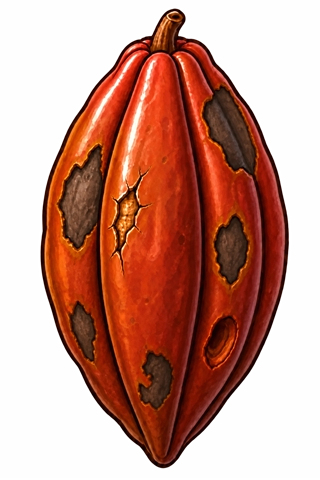
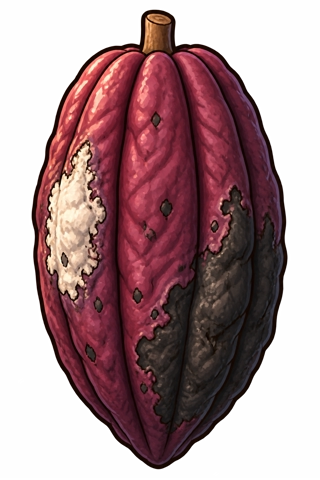
feat: se agrego boton de audio para instrucciones

diff --git a/src/scenes/SeleccionarMadurasScene.js b/src/scenes/SeleccionarMadurasScene.js
@@ -34,6 +34,7 @@ export default class SeleccionarMadurasScene extends Phaser.Scene {
         this.indicators = [];
         this.lifeIcons = [];
         this.firstWrongVoicePlayed = false;
+        this.firstDamagedVoicePlayed = false;
         this.lastInteractionAt = 0;
 
         this.createBackground();
@@ -90,32 +91,36 @@ export default class SeleccionarMadurasScene extends Phaser.Scene {
 
         this.progressPanel = this.add.rectangle(
             this.width * 0.16,
-            this.height * 0.085,
-            this.width * 0.22,
-            this.height * 0.095,
+            this.height * 0.155,
+            this.width * 0.15,
+            this.height * 0.06,
             0xFFF1C6,
             0.96
         ).setDepth(50);
 
-        this.progressPanel.setStrokeStyle(6, 0x7C431B, 1);
+        this.progressPanel.setStrokeStyle(
+            Math.max(3, this.height * 0.004),
+            0x7C431B,
+            1
+        );
 
         const podIcon = this.add.image(
-            this.width * 0.085,
-            this.height * 0.085,
+            this.width * 0.125,
+            this.height * 0.155,
             "MazorcaMaduraAmarilla"
         );
 
         podIcon
-            .setScale((this.height * 0.068) / podIcon.height)
+            .setScale((this.height * 0.044) / podIcon.height)
             .setDepth(51);
 
         this.progressText = this.add.text(
             this.width * 0.175,
-            this.height * 0.085,
+            this.height * 0.155,
             `0 / ${this.totalRipe}`,
             {
                 fontFamily: "Trebuchet MS",
-                fontSize: `${this.height * 0.044}px`,
+                fontSize: `${this.height * 0.03}px`,
                 color: "#5F3215",
                 fontStyle: "bold"
             }
@@ -127,21 +132,21 @@ export default class SeleccionarMadurasScene extends Phaser.Scene {
 
         this.timerPanel = this.add.image(
             this.width * 0.5,
-            this.height * 0.085,
+            this.height * 0.075,
             "PanelTemporizador"
         );
 
         this.timerPanel
-            .setScale((this.width * 0.23) / this.timerPanel.width)
+            .setScale((this.width * 0.18) / this.timerPanel.width)
             .setDepth(50);
 
         this.timerText = this.add.text(
-            this.width * 0.535,
-            this.height * 0.085,
+            this.width * 0.527,
+            this.height * 0.075,
             this.formatTime(this.remainingTime),
             {
                 fontFamily: "Trebuchet MS",
-                fontSize: `${this.height * 0.041}px`,
+                fontSize: `${this.height * 0.034}px`,
                 color: "#FFFFFF",
                 fontStyle: "bold"
             }
@@ -153,19 +158,20 @@ export default class SeleccionarMadurasScene extends Phaser.Scene {
 
     createLivesHud() {
 
-        const availableWidth = this.width * 0.115;
+        const availableWidth = this.width * 0.18;
         const heartWidth = Math.min(
-            this.width * 0.042,
+            this.width * 0.05,
+            this.height * 0.09,
             (availableWidth / this.maxLives) * 0.84
         );
         const spacing = heartWidth * 1.12;
-        const startX = this.width * 0.335 - spacing * (this.maxLives - 1) / 2;
+        const startX = this.width * 0.16 - spacing * (this.maxLives - 1) / 2;
 
         for (let index = 0; index < this.maxLives; index++) {
 
             const heart = this.add.image(
                 startX + spacing * index,
-                this.height * 0.085,
+                this.height * 0.065,
                 "CorazonLleno"
             );
 
@@ -232,10 +238,8 @@ export default class SeleccionarMadurasScene extends Phaser.Scene {
 
         new TutorialPanel(this, {
             character: "CacaitoIndicaciones",
-            text: "Toca las 5 mazorcas amarillas y anaranjadas. Evita las verdes y las dañadas: perderás un corazón.",
+            text: "Toca las cinco mazorcas amarillas y anaranjadas. Esas ya están maduras.",
             audio: "vozSeleccionMadurasInstruccion",
-            confirmText: "Jugar",
-            replayText: "Repetir audio",
             onVoiceStart: () => this.duckMusic(),
             onVoiceComplete: () => {},
             onComplete: () => {
@@ -253,6 +257,7 @@ export default class SeleccionarMadurasScene extends Phaser.Scene {
 
         this.createPods();
         this.createTimer();
+        this.createReplayAudioButton();
 
         this.pauseButton.setAlpha(1);
         this.pauseHitTarget.setInteractive({ useHandCursor: true });
@@ -265,6 +270,93 @@ export default class SeleccionarMadurasScene extends Phaser.Scene {
         });
 
         this.time.delayedCall(900, () => this.showHint());
+
+    }
+
+    createReplayAudioButton() {
+
+        this.replayAudioButton = this.add.image(
+            this.width * 0.94,
+            this.height * 0.90,
+            "btnRepetirAudio"
+        );
+
+        const buttonWidth = Math.min(
+            this.width * 0.055,
+            this.height * 0.09
+        );
+
+        this.replayAudioButtonScale = buttonWidth / this.replayAudioButton.width;
+
+        this.replayAudioButton
+            .setScale(this.replayAudioButtonScale)
+            .setDepth(51);
+
+        this.replayAudioHitTarget = this.add.rectangle(
+            this.replayAudioButton.x,
+            this.replayAudioButton.y,
+            this.width * 0.085,
+            this.height * 0.12,
+            0xFFFFFF,
+            0.001
+        )
+            .setDepth(52)
+            .setInteractive({ useHandCursor: true });
+
+        this.replayAudioHitTarget.on("pointerdown", () => {
+            if (this.levelState !== "playing") return;
+
+            this.sound.play("sfxBotonTocar", { volume: 1 });
+            this.replayAudioButton.setScale(this.replayAudioButtonScale * 0.95);
+        });
+
+        this.replayAudioHitTarget.on("pointerout", () => {
+            this.replayAudioButton.setScale(this.replayAudioButtonScale);
+        });
+
+        this.replayAudioHitTarget.on("pointerup", () => {
+            this.replayAudioButton.setScale(this.replayAudioButtonScale);
+            this.replayInstruction();
+        });
+
+    }
+
+    replayInstruction() {
+
+        if (this.levelState !== "playing") return;
+
+        this.levelState = "replayingInstruction";
+
+        if (this.timerEvent) this.timerEvent.paused = true;
+        if (this.hintEvent) this.hintEvent.paused = true;
+        if (this.timeWarning?.isPlaying) this.timeWarning.pause();
+
+        this.tweens.pauseAll();
+        this.disablePods();
+        this.replayAudioHitTarget.disableInteractive();
+
+        this.playVoice(
+            "vozSeleccionMadurasInstruccion",
+            () => this.finishInstructionReplay()
+        );
+
+    }
+
+    finishInstructionReplay() {
+
+        if (this.levelState !== "replayingInstruction") return;
+
+        this.tweens.resumeAll();
+        this.levelState = "playing";
+        this.lastInteractionAt = this.time.now;
+
+        if (this.timerEvent) this.timerEvent.paused = false;
+        if (this.hintEvent) this.hintEvent.paused = false;
+        if (this.timeWarning?.isPaused) this.timeWarning.resume();
+
+        this.pods.forEach(pod => pod.restoreInteraction());
+        this.pauseHitTarget.setInteractive({ useHandCursor: true });
+        this.replayAudioHitTarget.setInteractive({ useHandCursor: true });
 
     }
 
@@ -509,6 +601,11 @@ export default class SeleccionarMadurasScene extends Phaser.Scene {
 
         if (pod.podState === "damaged") {
             pod.showDamaged();
+
+            if (!this.firstDamagedVoicePlayed) {
+                this.firstDamagedVoicePlayed = true;
+                this.playVoice("vozSeleccionMazorcaDaniada");
+            }
         }
         else {
             this.indicators.push(pod.showNotReady("IndicadorEspera"));
@@ -828,6 +925,7 @@ export default class SeleccionarMadurasScene extends Phaser.Scene {
 
         this.pods.forEach(pod => pod.restoreInteraction());
         this.pauseHitTarget.setInteractive({ useHandCursor: true });
+        this.replayAudioHitTarget?.setInteractive({ useHandCursor: true });
         this.resumeMusicOnly();
 
     }
@@ -836,6 +934,7 @@ export default class SeleccionarMadurasScene extends Phaser.Scene {
 
         this.pods.forEach(pod => pod.disableInteractive());
         this.pauseHitTarget.disableInteractive();
+        this.replayAudioHitTarget?.disableInteractive();
 
     }
 
@@ -881,7 +980,7 @@ export default class SeleccionarMadurasScene extends Phaser.Scene {
         if (music) music.setVolume(0.22);
     }
 
-    playVoice(key) {
+    playVoice(key, onComplete) {
 
         if (this.activeVoice) {
             this.activeVoice.stop();
@@ -899,6 +998,7 @@ export default class SeleccionarMadurasScene extends Phaser.Scene {
                 voice.destroy();
                 this.activeVoice = null;
             }
+            onComplete?.();
         };
 
         if (voice.play()) {

diff --git a/src/scenes/PreloadScene.js b/src/scenes/PreloadScene.js
@@ -48,6 +48,7 @@ export default class PreloadScene extends Phaser.Scene {
         this.load.image("CorazonLleno", "images/ui/CorazonLleno.png");
         this.load.image("CorazonVacio", "images/ui/CorazonVacio.png");
         this.load.image("PanelTemporizador", "images/ui/PanelTemporizador.png");
+        this.load.image("btnRepetirAudio", "images/ui/btnRepetirAudio.png");
         this.load.image("btnIconoMazorcasListas", "images/buttons/btnIconoMazorcasListas.png");
 
         // Modulo Sembrar: Nivel 1
@@ -104,6 +105,7 @@ export default class PreloadScene extends Phaser.Scene {
         this.load.audio("sfxSeleccionIncorrecta", "audio/sfx/SeleccionIncorrecta.mp3");
         this.load.audio("vozSeleccionMadurasInstruccion", "audio/voice/SeleccionMadurasInstruccion.mp3");
         this.load.audio("vozSeleccionMadurasVerde", "audio/voice/SeleccionMadurasVerde.mp3");
+        this.load.audio("vozSeleccionMazorcaDaniada", "audio/voice/SeleccionMazorcaDaniada.mp3");
         this.load.audio("vozSeleccionMadurasCompletado", "audio/voice/SeleccionMadurasCompletado.mp3");
         this.load.audio("vozSeleccionMadurasTiempoAgotado", "audio/voice/SeleccionMadurasTiempoAgotado.mp3");
     }

diff --git a/docs/plan_guia.md b/docs/plan_guia.md
@@ -286,6 +286,7 @@ Todos los minijuegos deben reutilizar los mismos assets aprobados para vidas, ti
 | `CorazonVacio` | `images/ui/CorazonVacio.png` | Vida perdida. Debe sustituir al corazón lleno en la misma posición. |
 | `PanelTemporizador` | `images/ui/PanelTemporizador.png` | Marco común del cronómetro de todos los minijuegos. |
 | `btnPausa` | `images/ui/btnPausa.png` | Botón común para abrir la pausa. |
+| `btnRepetirAudio` | `images/ui/btnRepetirAudio.png` | Repetir la instrucción hablada después de cerrar el tutorial. |
 
 Reglas de implementación:
 
@@ -297,7 +298,8 @@ Reglas de implementación:
 6. Escalar y posicionar el HUD usando las dimensiones del lienzo; no usar coordenadas pensadas únicamente para PC.
 7. Mantener una zona táctil cómoda alrededor de `btnPausa`, aunque el círculo visible sea más pequeño.
 8. Al pausar, detener cronómetro, eventos, animaciones e interacción, y pausar también música, voces o avisos que estén reproduciéndose. Al continuar, restaurar el estado sin reiniciar el nivel.
-9. No recolorear, duplicar, renombrar ni sustituir estos cuatro assets desde un minijuego individual. Cualquier cambio visual debe revisarse como una modificación global porque afecta a todos los módulos.
+9. No recolorear, duplicar, renombrar ni sustituir estos assets desde un minijuego individual. Cualquier cambio visual debe revisarse como una modificación global porque afecta a todos los módulos.
+10. Después de cerrar el tutorial, mostrar `btnRepetirAudio` en una esquina segura. Al tocarlo, reproducir nuevamente la voz de instrucción y pausar temporalmente el cronómetro y la interacción para no penalizar al niño.
 
 ## 6. Uso de `images/minigames/cosechar`
 
@@ -382,6 +384,7 @@ Actualmente “Seleccionar maduras” no necesita guardar imágenes en esa carpe
 - [ ] La cantidad de vidas se controla mediante un único valor configurable y los corazones se generan dinámicamente.
 - [ ] El tiempo se dibuja dinámicamente sobre el panel; el PNG no contiene números fijos.
 - [ ] La pausa detiene y restaura correctamente todos los sistemas activos del minijuego.
+- [ ] El botón `btnRepetirAudio` permite volver a escuchar la instrucción sin consumir tiempo de juego.
 - [ ] La escena limpia voces y eventos al cerrarse.
 - [ ] La interacción fue probada en celular horizontal.
 - [ ] No existen errores en consola ni archivos faltantes.
